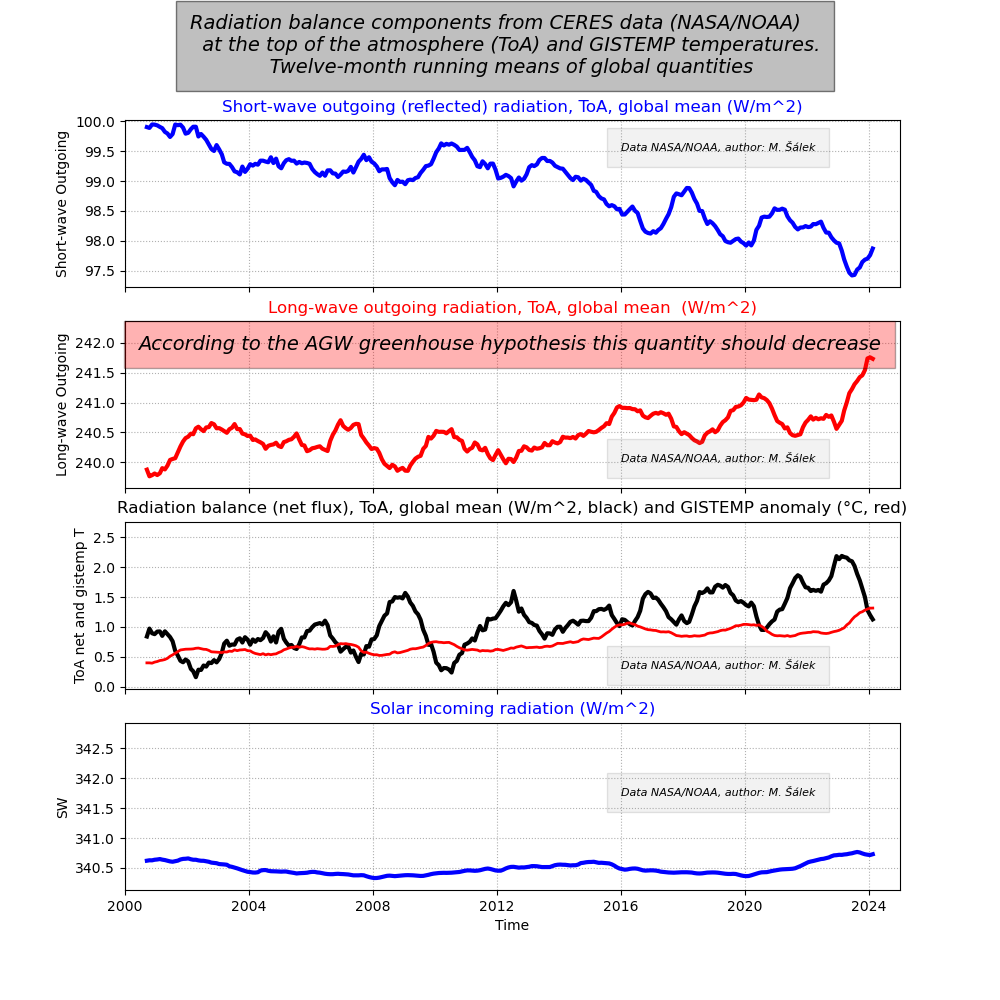
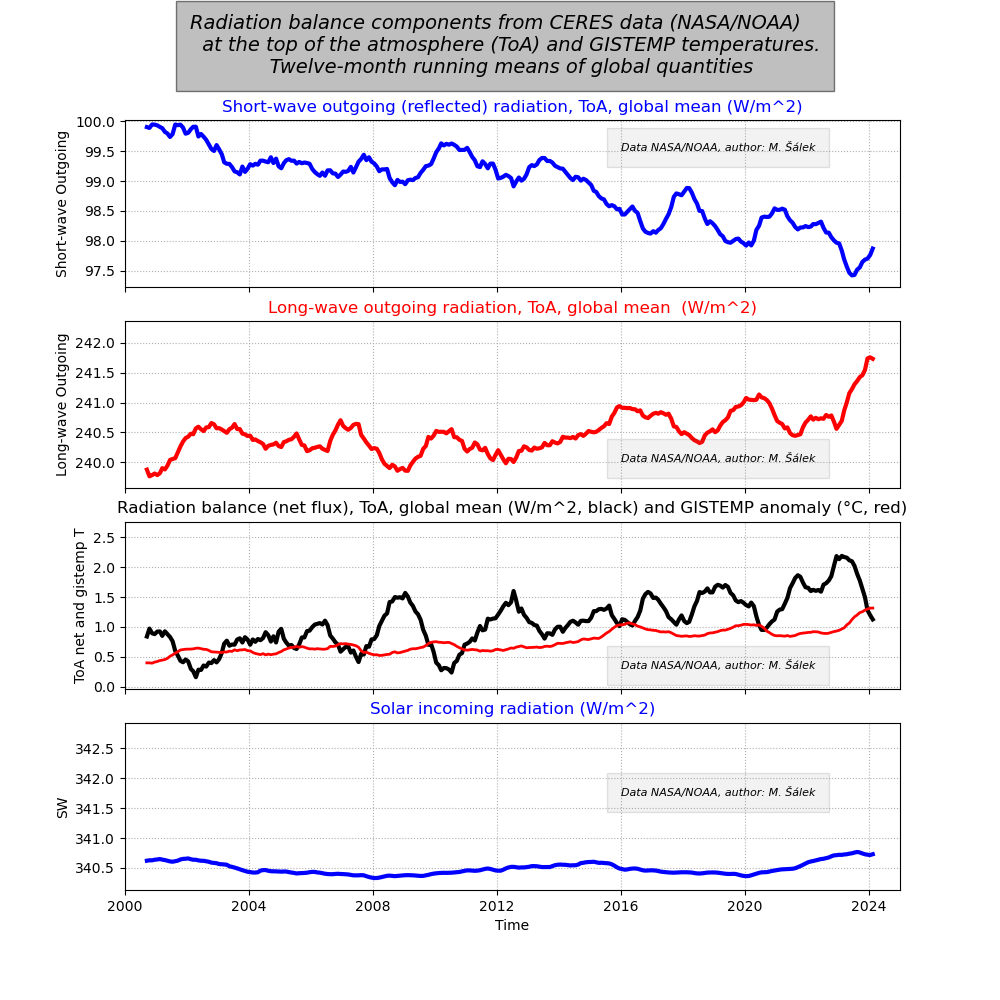
Some small changes

Changed region(s): [[0.124, 0.31, 0.899, 0.372]]

diff --git a/ceres_rad_fluxes.py b/ceres_rad_fluxes.py
@@ -155,8 +155,6 @@ axs[1].set_ylim(float(lw_weighted_mean_smoothed.min())  - ylim_offset,
             float(lw_weighted_mean_smoothed.min() + ylim_range))
 axs[1].set_ylabel('Long-wave Outgoing')
 axs[1].set_title('Long-wave outgoing radiation, ToA, global mean  (W/m^2)', color = 'red')
-axs[1].text(datetime(2000, 6, 1), 241.88, 'According to the AGW greenhouse hypothesis this quantity should decrease', style='italic',
-        bbox={'facecolor': 'red', 'alpha': 0.3, 'pad': 10}, fontsize=14)
 axs[1].grid('on', which='major', axis='y', linestyle=':')
 axs[1].grid('on', which='major', axis='x', linestyle=':')
 axs[1].text(datetime(2016, 1, 1), 240, 'Data NASA/NOAA, author: M. Šálek', style='italic',
